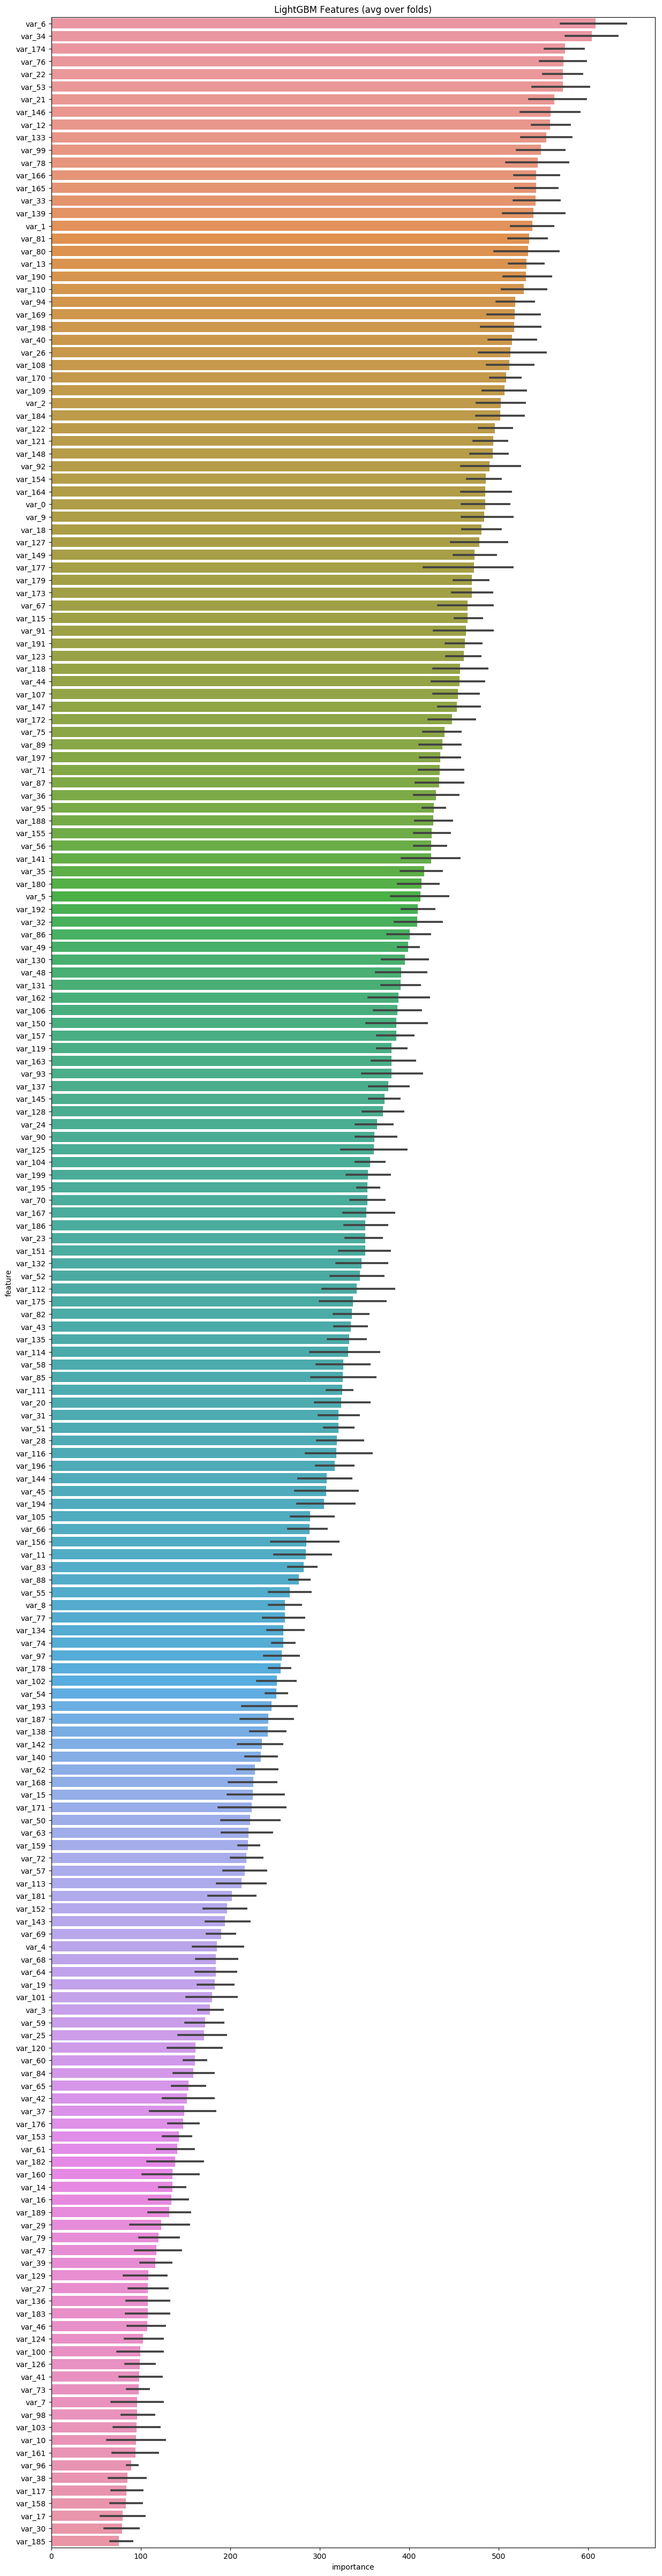
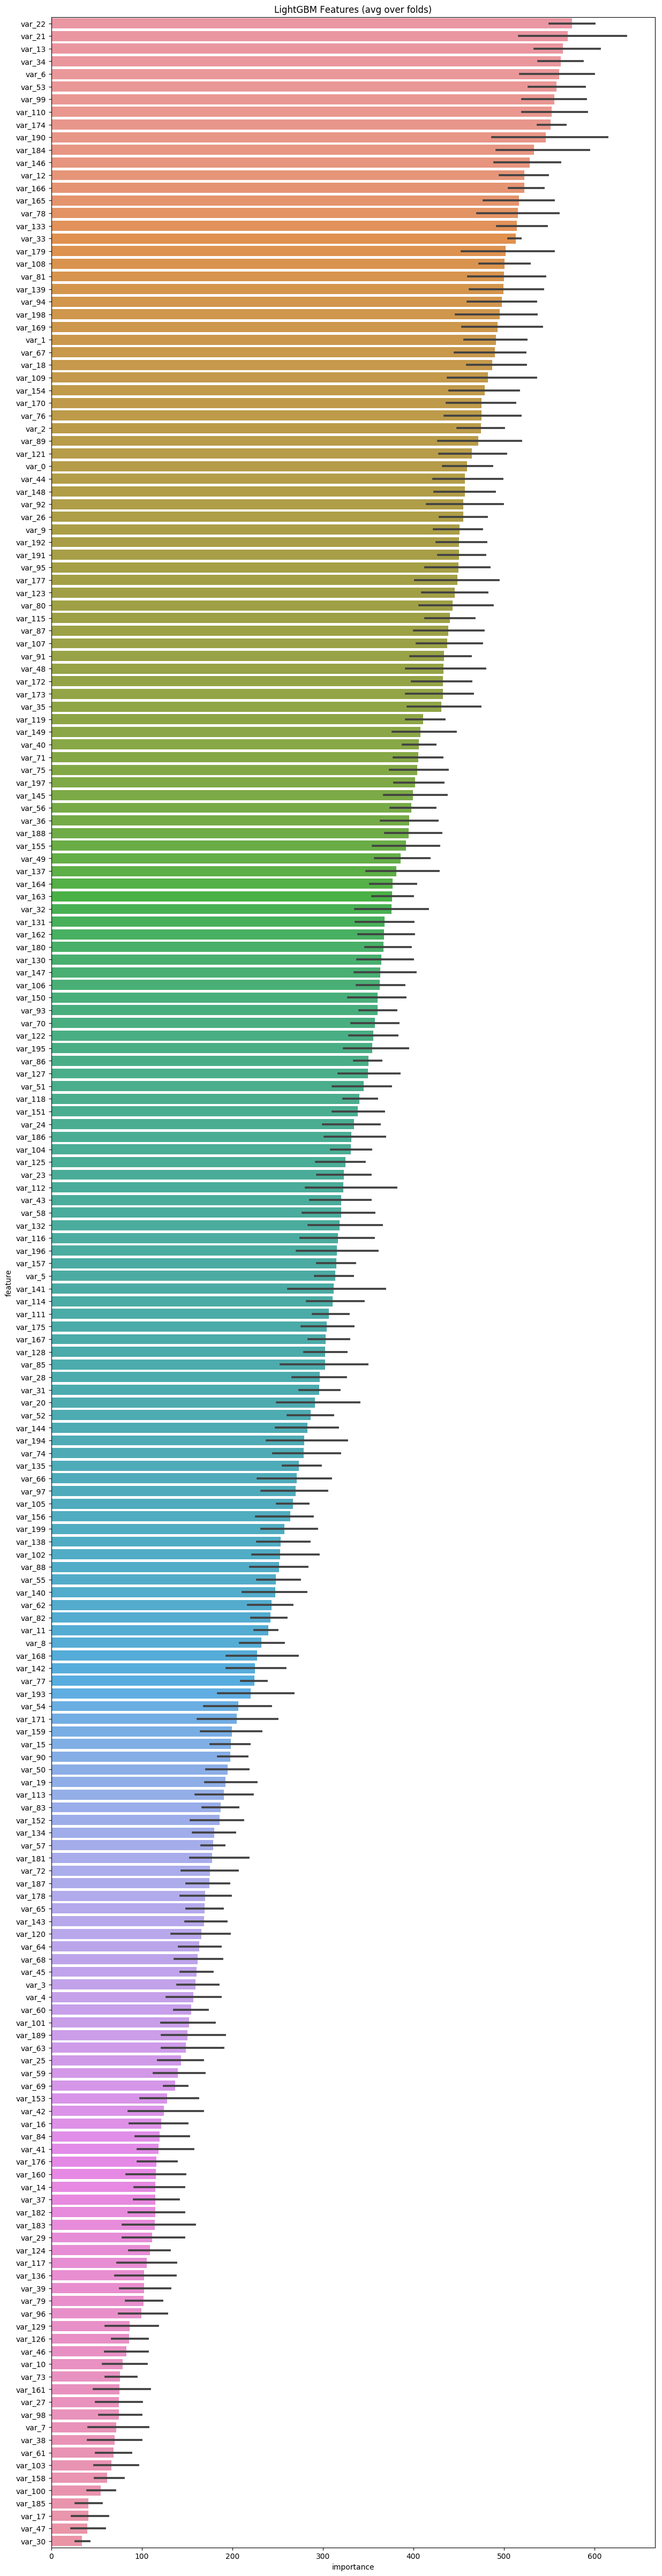
change

diff --git a/py/701_lightgbm.py b/py/701_lightgbm.py
@@ -70,6 +70,18 @@ test = pd.read_csv(os.path.join(PATH, 'test.csv'))
 #     train[column] = 1 / (train[column] + 1)
 #     test[column] = 1 / (test[column] + 1)
 
+# for column in train.columns[2:]:
+#     train[column] = np.log1p(train[column])
+#     test[column] = np.log1p(test[column])
+
+df = pd.concat([train, test], axis=0)
+for c in df.columns[2:]:
+    df[c] = df[c] / (df[c].max() - df[c].min())
+
+train = df[df['target'].notnull()]
+test = df[df['target'].isnull()]
+del df
+gc.collect()
 # =============================================================================
 # PREPROCESS
 # =============================================================================
